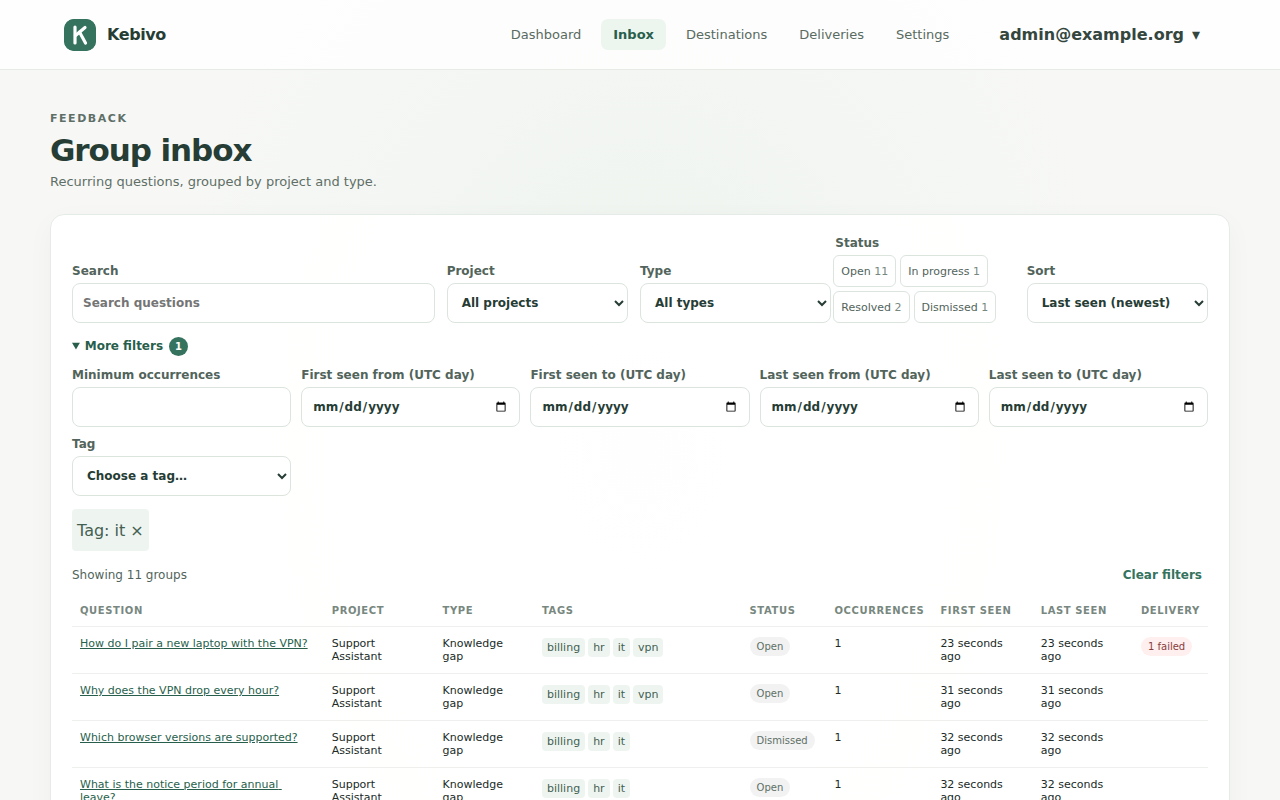
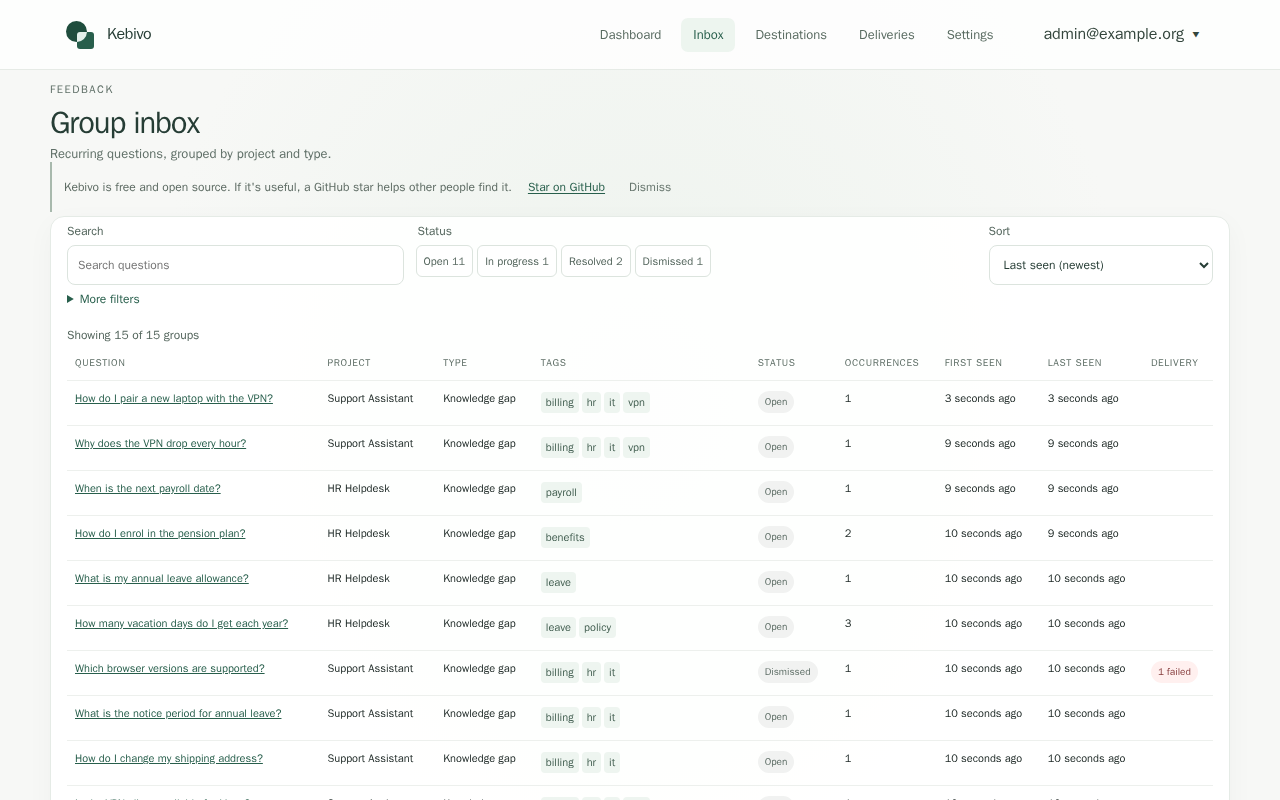
Improve inbox filters and text contrast

diff --git a/frontend/src/style.css b/frontend/src/style.css
@@ -6,7 +6,7 @@ button, input, textarea { font: inherit; }
 .topbar { min-height: 70px; padding: 0 clamp(20px, 5vw, 72px); display: flex; align-items: center; justify-content: space-between; border-bottom: 1px solid #e6ebe6; background: rgba(255,255,255,.78); }
 .brand { display: inline-flex; align-items: center; gap: 11px; color: #263d35; text-decoration: none; font-weight: 700; letter-spacing: -.025em; }
 .brand-mark { display:block; width: 32px; height: 32px; }
-.phase-label, .eyebrow { color: #78877f; font-size: 11px; letter-spacing: .14em; font-weight: 700; text-transform: uppercase; }
+.phase-label, .eyebrow { color: #5f6f67; font-size: 11px; letter-spacing: .14em; font-weight: 700; text-transform: uppercase; }
 .top-nav { display:flex; gap:8px; margin-left:auto; margin-right:22px; } .top-nav a { color:#596b61; text-decoration:none; padding:8px 12px; border-radius:7px; font-size:13px; } .top-nav a[aria-current=page] { background:#edf5ef; color:#285f4c; font-weight:700; }
 main { width: 100%; flex: 1; padding: 42px 24px; }
 .center { display: grid; place-items: center; }
@@ -15,7 +15,7 @@ h1, h2, h3 { font-family: inherit; letter-spacing: -.035em; color: #263d35; }
 h1 { margin: 11px 0 10px; font-size: clamp(28px, 4vw, 35px); line-height: 1.16; }
 h2 { margin: 5px 0 4px; font-size: 20px; }
 h3 { margin: 0 0 7px; font-size: 16px; }
-.intro, .subtle { color: #738078; line-height: 1.55; font-size: 13px; }
+.intro, .subtle { color: #5f6f67; line-height: 1.55; font-size: 13px; }
 .intro { margin: 0 0 25px; }
 form { display: grid; gap: 9px; }
 label, legend { color: #44554d; font-size: 13px; font-weight: 600; }
@@ -27,9 +27,9 @@ button:hover:not(:disabled) { background: #285f4c; }
 button:disabled { opacity: .62; cursor: wait; }
 button:active:not(:disabled) { transform: translateY(1px); }
 *:focus-visible { outline: 3px solid #285f4c; outline-offset: 3px; }
-.fine-print { margin: 20px 0 0; text-align: center; color: #89958e; font-size: 11px; line-height: 1.6; }
+.fine-print { margin: 20px 0 0; text-align: center; color: #5f6f67; font-size: 11px; line-height: 1.6; }
 code { font-family: ui-monospace, SFMono-Regular, Menlo, monospace; font-size: .88em; }
-footer { padding: 18px; text-align: center; color: #99a39d; font-size: 11px; }
+footer { padding: 18px; text-align: center; color: #5f6f67; font-size: 11px; }
 .dashboard-main { align-items: start; }
 .dashboard { width: min(100%, 1180px); margin: 0 auto; }
 .dashboard-heading, .panel-heading { display: flex; justify-content: space-between; align-items: center; gap: 18px; }
@@ -56,7 +56,7 @@ footer { padding: 18px; text-align: center; color: #99a39d; font-size: 11px; }
 .project-avatar { display: grid; place-items: center; flex: 0 0 34px; height: 34px; background: #e8f1eb; color: #35735e; border-radius: 10px; font-weight: 700; }
 .project-info { display: grid; min-width: 0; flex: 1; gap: 3px; }
 .project-info strong { overflow: hidden; text-overflow: ellipsis; white-space: nowrap; font-size: 13px; }
-.project-info small { color: #87938c; }
+.project-info small { color: #5f6f67; }
 .badge { padding: 4px 7px; border-radius: 99px; background: #f1f2f1; color: #707973; font-size: 10px; white-space: nowrap; }
 .badge.active { background: #eaf4ed; color: #317051; }
 .archived-toggle { margin-top: 13px; }
@@ -71,7 +71,7 @@ footer { padding: 18px; text-align: center; color: #99a39d; font-size: 11px; }
 .detail-panel { border-top: 3px solid #85ad95; }
 .settings-summary { display: grid; grid-template-columns: repeat(2, minmax(0, 1fr)); gap: 12px; margin: 20px 0; }
 .settings-summary div { padding: 11px 12px; border-radius: 8px; background: #f7f9f7; }
-.settings-summary dt { color: #78877f; font-size: 10px; text-transform: uppercase; letter-spacing: .08em; }
+.settings-summary dt { color: #5f6f67; font-size: 10px; text-transform: uppercase; letter-spacing: .08em; }
 .settings-summary dd { margin: 4px 0 0; color: #34463d; font-size: 13px; font-weight: 600; overflow-wrap: anywhere; }
 .tag-summary { display: grid; gap: 7px; margin: -8px 0 17px; color: #5b6d63; font-size: 11px; }
 .scope-note, .inline-note { margin: 0; padding: 12px; border-radius: 8px; background: #f0f6f1; color: #50645a; font-size: 12px; line-height: 1.6; }
@@ -79,7 +79,7 @@ footer { padding: 18px; text-align: center; color: #99a39d; font-size: 11px; }
 .project-form { gap: 8px; }
 .project-form fieldset { display: grid; gap: 8px; margin: 10px 0; padding: 13px; border: 1px solid #e2e9e3; border-radius: 9px; }
 .project-form legend { padding: 0 4px; }
-.help-text { margin: -5px 0 4px 23px; color: #87938c; font-size: 11px; }
+.help-text { margin: -5px 0 4px 23px; color: #5f6f67; font-size: 11px; }
 .project-form details { display: grid; gap: 8px; margin: 8px 0; }
 .project-form details summary { color: #285f4c; font-weight: 600; cursor: pointer; }
 .project-form details[open] summary { margin-bottom: 4px; }
@@ -115,19 +115,26 @@ footer { padding: 18px; text-align: center; color: #99a39d; font-size: 11px; }
 .first-run-empty p { color:#65746c; font-size:13px; line-height:1.6; }
 .first-run-empty .button-row { flex-wrap:wrap; }
 .setup-command { max-width:100%; overflow-x:auto; padding:12px; border-radius:8px; background:#f5f7f5; tab-size:2; }
-#sample-hint { display:block; margin-top:4px; color:#738078; font-size:12px; font-weight:400; line-height:1.55; }
+#sample-hint { display:block; margin-top:4px; color:#5f6f67; font-size:12px; font-weight:400; line-height:1.55; }
 .field-error { color:#9a3f3f; }
 .sample-banner + .sample-announcement { margin-top:0; }
 .empty-card { min-height: 240px; display: flex; flex-direction: column; align-items: center; justify-content: center; padding: 32px; text-align: center; border-style: dashed; }
 .empty-icon { display: grid; place-items: center; width: 48px; height: 48px; border-radius: 15px; color: #35735e; background: #edf5ef; font-size: 24px; }
 .empty-card h2 { margin: 15px 0 6px; }
-.empty-card p { max-width: 340px; margin: 0; color: #78877f; font-size: 13px; line-height: 1.6; }
+.empty-card p { max-width: 340px; margin: 0; color: #5f6f67; font-size: 13px; line-height: 1.6; }
+.inbox-page { padding-top:12px; }
+.inbox-page .dashboard-heading { margin-bottom:6px; }
+.inbox-page .star-prompt { margin-bottom:4px; }
+.inbox-page .inbox-filter-panel { padding:6px 16px; }
+.inbox-page .group-filters { margin-bottom:6px; }
+.inbox-page .more-filters { margin-bottom:4px; }
+.inbox-page .filter-summary { min-height:22px; margin-bottom:0; }
 .table-wrap { overflow-x: auto; }
 table { width: 100%; border-collapse: collapse; text-align: left; font-size: 11px; }
 th, td { padding: 10px 8px; border-bottom: 1px solid #edf0ed; vertical-align: top; }
-thead th { color: #78877f; font-size: 10px; text-transform: uppercase; letter-spacing: .06em; }
+thead th { color: #5f6f67; font-size: 10px; text-transform: uppercase; letter-spacing: .06em; }
 tbody th { min-width: 120px; font-weight: 600; }
-tbody th small { display: block; margin-top: 4px; color: #89958e; font-weight: 400; }
+tbody th small { display: block; margin-top: 4px; color: #5f6f67; font-weight: 400; }
 .scope-chip { display: inline-block; margin: 1px 3px 2px 0; padding: 3px 5px; border-radius: 4px; color: #446052; background: #eef5f0; white-space: nowrap; }
 .revoked-row { color: #88918b; }
 .secret-reveal { margin: 0 0 15px; padding: 14px; border: 1px solid #e9d99e; border-radius: 9px; background: #fff9e7; }
@@ -145,13 +152,13 @@ tbody th small { display: block; margin-top: 4px; color: #89958e; font-weight: 4
 .group-filters input,.tag-filter input { min-width:0; min-height:40px; padding:8px 10px; border:1px solid #dce4de; border-radius:8px; color:#263d35; background:#fff; font:inherit; }
 .group-filters .wide-filter { grid-column:span 2; }
 .inbox-filter-content { display:block; }
-.group-filters { grid-template-columns: minmax(190px,2fr) repeat(4,minmax(125px,1fr)); align-items:end; }
+.group-filters { grid-template-columns:minmax(220px,1.2fr) minmax(0,2fr) minmax(180px,.8fr); align-items:start; }
 .group-filters .wide-filter { grid-column:auto; }
 .status-filter { min-width:0; margin:0; padding:0; border:0; }
 .status-filter legend { margin-bottom:5px; color:#52645b; font-size:12px; }
 .status-toggles { display:flex; flex-wrap:wrap; gap:4px; }
 .status-toggle { min-height:32px; padding:5px 7px; border:1px solid #dce4de; border-radius:6px; color:#52645b; background:#fff; font:inherit; font-size:11px; cursor:pointer; }
-.status-toggle span { color:#78877f; font-variant-numeric:tabular-nums; }
+.status-toggle span { color:#5f6f67; font-variant-numeric:tabular-nums; }
 .status-toggle.is-selected { border-color:#35735e; color:#20513e; background:#edf5ef; }
 .more-filters { margin:2px 0 12px; }
 .more-filters summary { width:max-content; color:#285f4c; font-size:12px; font-weight:600; cursor:pointer; }
@@ -194,7 +201,7 @@ tbody th small { display: block; margin-top: 4px; color: #89958e; font-weight: 4
 .mcp-panel { margin-top:16px; padding-top:16px; border-top:1px solid #edf0ed; color:#52645b; font-size:12px; line-height:1.6; } .mcp-panel p { margin:7px 0; } .mcp-panel label { display:block; margin-top:10px; } .mcp-panel .safe-pre { margin:5px 0; }
 .inbox-table caption { text-align:left; } .status { display:inline-block; padding:4px 7px; border-radius:99px; background:#f1f2f1; color:#647168; font-size:10px; text-transform:capitalize; } .status-completed { background:#eaf4ed; color:#276047; } .status-failed { background:#fff0ef; color:#873e3e; }
 .safe-text { white-space:pre-wrap; overflow-wrap:anywhere; unicode-bidi:isolate; } .safe-pre { white-space:pre-wrap; overflow-wrap:anywhere; unicode-bidi:isolate; max-width:100%; padding:13px; border-radius:8px; background:#f5f7f5; color:#34463d; font-size:11px; }
-.inbox-table { min-width:900px; } .inbox-table td.question-cell { max-width:300px; } .inbox-table a { color:#285f4c; } .feedback-detail > section { margin-top:24px; padding-top:16px; border-top:1px solid #edf0ed; } .feedback-fields { display:grid; grid-template-columns:repeat(2,minmax(0,1fr)); gap:10px; } .feedback-fields > div { min-width:0; padding:11px; border-radius:8px; background:#f7f9f7; } .feedback-fields dt { color:#78877f; text-transform:uppercase; font-size:10px; letter-spacing:.08em; } .feedback-fields dd { margin:5px 0 0; line-height:1.55; font-size:13px; } .feedback-detail h2 { margin:15px 0 10px; } .default-tags { padding-top:14px; border-top:1px solid #edf0ed; } .default-tags form { margin:10px 0; } .default-tags .subtle { margin:4px 0 10px; } .normalized-tags ul { padding-left:20px; } .normalized-tags li { display:flex; justify-content:space-between; padding:5px 0; } .normalized-tags li code { color:#456253; }
+.inbox-table { min-width:900px; } .inbox-table td.question-cell { max-width:300px; } .inbox-table a { color:#285f4c; } .feedback-detail > section { margin-top:24px; padding-top:16px; border-top:1px solid #edf0ed; } .feedback-fields { display:grid; grid-template-columns:repeat(2,minmax(0,1fr)); gap:10px; } .feedback-fields > div { min-width:0; padding:11px; border-radius:8px; background:#f7f9f7; } .feedback-fields dt { color:#5f6f67; text-transform:uppercase; font-size:10px; letter-spacing:.08em; } .feedback-fields dd { margin:5px 0 0; line-height:1.55; font-size:13px; } .feedback-detail h2 { margin:15px 0 10px; } .default-tags { padding-top:14px; border-top:1px solid #edf0ed; } .default-tags form { margin:10px 0; } .default-tags .subtle { margin:4px 0 10px; } .normalized-tags ul { padding-left:20px; } .normalized-tags li { display:flex; justify-content:space-between; padding:5px 0; } .normalized-tags li code { color:#456253; }
 .group-question { display:-webkit-box; -webkit-line-clamp:2; -webkit-box-orient:vertical; overflow:hidden; max-width:34ch; margin:8px 0 12px; }
 .group-question.expanded { display:block; overflow:visible; }
 .group-chips { display:flex; flex-wrap:wrap; gap:8px; align-items:center; margin:8px 0; }

diff --git a/frontend/src/Inbox.tsx b/frontend/src/Inbox.tsx
@@ -79,7 +79,7 @@ export function Inbox({ navigate }: { path?: string; navigate: (url: string) => 
     navigate(`/inbox${params.size ? `?${params}` : ''}`);
   }
   const availableTags = Array.from(new Map(items.flatMap(item => item.tags).map(tag => [tag.slug, tag])).values());
-  function clearFilters() { navigate('/inbox'); setLoading(true); setError(''); }
+  function clearFilters() { setMoreOpen(false); navigate('/inbox'); setLoading(true); setError(''); }
   function removeTag(tag: string) { setLoading(true); setError(''); const params = new URLSearchParams(window.location.search); params.delete('tag'); tags.filter(item => item !== tag).forEach(item => params.append('tag', item)); navigate(`/inbox${params.size ? `?${params}` : ''}`); }
   async function loadMore() {
     if (!cursor) return; const requestedFilterKey = filterKey; setMoreLoading(true); setError('');
@@ -88,10 +88,10 @@ export function Inbox({ navigate }: { path?: string; navigate: (url: string) => 
     catch (e) { setError(e instanceof Error ? e.message : 'Could not load more groups.'); } finally { setMoreLoading(false); }
   }
   const filtered = Boolean(projectId || eventType || status.length || tags.length || q || firstFrom || firstTo || lastFrom || lastTo || minOccurrences);
-  const moreFilterCount = Number(Boolean(firstFrom || firstTo)) + Number(Boolean(lastFrom || lastTo)) + Number(Boolean(minOccurrences)) + tags.length;
+  const moreFilterCount = Number(Boolean(projectId)) + Number(Boolean(eventType)) + Number(Boolean(firstFrom || firstTo)) + Number(Boolean(lastFrom || lastTo)) + Number(Boolean(minOccurrences)) + tags.length;
   const statusCounts = summary?.groups_by_status ?? {};
   const statusCountLabel = statuses.map(value => `${statusLabels[value]} ${statusCounts[value] ?? 0}`).join(', ');
-  return <main className="dashboard-main"><section className="dashboard" aria-labelledby="inbox-title">
+  return <main className="dashboard-main inbox-page"><section className="dashboard" aria-labelledby="inbox-title">
     <div className="dashboard-heading"><div><div className="eyebrow">FEEDBACK</div><h1 id="inbox-title" tabIndex={-1}>Group inbox</h1><p className="subtle">Recurring questions, grouped by project and type.</p></div></div>
     <StarPrompt />
     {error && <div role="alert" className="error-message"><span>{error}</span> <button className="quiet-button" onClick={() => { setLoading(true); setRetry(v => v + 1); }}>Retry</button></div>}
@@ -100,17 +100,17 @@ export function Inbox({ navigate }: { path?: string; navigate: (url: string) => 
       <div className={`inbox-filter-content${mobileFiltersOpen ? ' is-open' : ''}`}>
       <div className="group-filters">
         <label className="wide-filter">Search<input aria-label="Search groups" type="search" value={searchDraft} onChange={e => setSearchState({ source: q, value: e.target.value })} placeholder="Search questions" /></label>
-        <label>Project<select aria-label="Filter by project" value={projectId} onChange={e => update('project_id', e.target.value)}><option value="">All projects</option>{projects.map(p => <option key={p.id} value={p.id}>{p.name}{p.is_sample ? ' · Sample' : ''}</option>)}</select></label>
-        <label>Type<select aria-label="Filter by type" value={eventType} onChange={e => update('event_type', e.target.value)}><option value="">All types</option><option value="knowledge_gap">Knowledge gap</option><option value="knowledge_correction">Knowledge correction</option></select></label>
         <fieldset className="status-filter"><legend>Status</legend><div role="group" aria-label={`Filter by status. Total groups by status: ${statusCountLabel}`} className="status-toggles">{statuses.map(value => <button type="button" key={value} aria-pressed={status.includes(value)} className={`status-toggle${status.includes(value) ? ' is-selected' : ''}`} onClick={() => setStatuses(status.includes(value) ? status.filter(item => item !== value) : [...status, value])}>{statusLabels[value]} <span>{statusCounts[value] ?? 0}</span></button>)}</div></fieldset>
         <label>Sort<select aria-label="Sort groups" value={sort} onChange={e => update('sort', e.target.value)}>{sorts.map(([value, label]) => <option key={value} value={value}>{label}</option>)}</select></label>
       </div>
-      <details className="more-filters" open={moreOpen} onToggle={e => setMoreOpen(e.currentTarget.open)}><summary>More filters{moreFilterCount ? <span className="filter-count">{moreFilterCount}</span> : null}</summary>
-        <div className="more-filter-grid"><label>Minimum occurrences<input aria-label="Minimum occurrences" type="number" min="1" value={minOccurrences} onChange={e => update('min_occurrences', e.target.value)} /></label>
+      <details className="more-filters" open={moreFilterCount > 0 || moreOpen} onToggle={e => setMoreOpen(e.currentTarget.open)}><summary>More filters{moreFilterCount ? <span className="filter-count">{moreFilterCount}</span> : null}</summary>
+        <div className="more-filter-grid"><label>Project<select aria-label="Filter by project" value={projectId} onChange={e => update('project_id', e.target.value)}><option value="">All projects</option>{projects.map(p => <option key={p.id} value={p.id}>{p.name}{p.is_sample ? ' · Sample' : ''}</option>)}</select></label>
+        <label>Type<select aria-label="Filter by type" value={eventType} onChange={e => update('event_type', e.target.value)}><option value="">All types</option><option value="knowledge_gap">Knowledge gap</option><option value="knowledge_correction">Knowledge correction</option></select></label>
+        <label>Minimum occurrences<input aria-label="Minimum occurrences" type="number" min="1" value={minOccurrences} onChange={e => update('min_occurrences', e.target.value)} /></label>
         {([['first_seen_from','First seen from (UTC day)',firstFrom],['first_seen_to','First seen to (UTC day)',firstTo],['last_seen_from','Last seen from (UTC day)',lastFrom],['last_seen_to','Last seen to (UTC day)',lastTo]] as const).map(([key,label,value]) => <label key={key}>{label}<input aria-label={label} type="date" value={value} onChange={e => update(key, e.target.value ? `${e.target.value}T${key.endsWith('_to') ? '23:59:59' : '00:00:00'}Z` : '')} /></label>)}
         <label>Tag<select aria-label="Filter by existing tag" value="" onChange={e => e.target.value && update('tag', e.target.value)}><option value="">Choose a tag…</option>{availableTags.filter(tag => !tags.includes(tag.slug)).map(tag => <option key={tag.slug} value={tag.slug}>{tag.name}</option>)}</select></label></div>
       </details>
-      <div className="filter-chips" aria-label="Active filters">{status.map(s => <button key={s} type="button" className="scope-chip" onClick={() => setStatuses(status.filter(value => value !== s))} aria-label={`Remove status ${statusLabels[s]}`}>Status: {statusLabels[s]} ×</button>)}{tags.map(tag => <button key={tag} type="button" className="scope-chip" onClick={() => removeTag(tag)} aria-label={`Remove tag ${tag}`}>Tag: {availableTags.find(item => item.slug === tag)?.name ?? tag} ×</button>)}</div>
+      <div className="filter-chips" role="group" aria-label="Active filters">{status.map(s => <button key={s} type="button" className="scope-chip" onClick={() => setStatuses(status.filter(value => value !== s))} aria-label={`Remove status ${statusLabels[s]}`}>Status: {statusLabels[s]} ×</button>)}{tags.map(tag => <button key={tag} type="button" className="scope-chip" onClick={() => removeTag(tag)} aria-label={`Remove tag ${tag}`}>Tag: {availableTags.find(item => item.slug === tag)?.name ?? tag} ×</button>)}</div>
       </div>
       <div className="filter-summary"><p aria-live="polite" aria-atomic="true">{loading ? 'Loading groups…' : filtered ? `Showing ${items.length} groups` : `Showing ${items.length} of ${summary?.total_groups ?? items.length} groups`}</p>{filtered && <button type="button" className="text-button" onClick={clearFilters}>Clear filters</button>}</div>
       {loading ? <p role="status">Loading groups…</p> : !error && items.length === 0 ? filtered ? <div className="empty-state"><h2>No matching groups</h2><p>Your filters hide all results. Try changing or clearing them.</p></div> : <FirstRunEmpty navigate={navigate} projectId={projects.find(project => !project.is_sample)?.id} /> : items.length > 0 && <><GroupTable items={items} />{cursor && <button className="quiet-button" onClick={() => void loadMore()} disabled={moreLoading}>{moreLoading ? 'Loading…' : 'Load more'}</button>}</>}

diff --git a/frontend/e2e/zz-accessibility.spec.ts b/frontend/e2e/zz-accessibility.spec.ts
@@ -1,0 +1,65 @@
+import AxeBuilder from '@axe-core/playwright';
+import { expect, test, type Page } from '@playwright/test';
+import { signIn } from './helpers';
+import { seed } from './seed';
+
+test('setup, inbox, and group detail have no serious or critical axe violations', async ({ browser, page, baseURL }) => {
+  const data = await seed(baseURL!);
+  const axeResults: { page: string; violations: { id: string; impact: string | null; description: string; nodes: number }[] }[] = [];
+  const check = async (target: Page, name: string) => {
+    const results = await new AxeBuilder({ page: target }).analyze();
+    axeResults.push({
+      page: name,
+      violations: results.violations.map(({ id, impact, description, nodes }) => ({ id, impact, description, nodes: nodes.length })),
+    });
+    expect(
+      results.violations.filter(({ impact }) => impact === 'serious' || impact === 'critical'),
+      `${name} should have no serious or critical accessibility violations`,
+    ).toEqual([]);
+  };
+
+  // The e2e stack already has an administrator. Stub the setup status to inspect
+  // the first-run form and its optional sample-data hint without creating an account.
+  const setupContext = await browser.newContext({ viewport: { width: 1280, height: 800 } });
+  const setupPage = await setupContext.newPage();
+  await setupPage.route('**/api/v1/auth/setup', route => route.fulfill({
+    status: 200,
+    contentType: 'application/json',
+    body: JSON.stringify({ required: true }),
+  }));
+  await setupPage.goto('/setup#token=axe-check');
+  await expect(setupPage.getByRole('heading', { name: 'Create your administrator account' })).toBeVisible();
+  await check(setupPage, 'setup');
+  await setupContext.close();
+
+  await signIn(page);
+  await expect(page.getByRole('heading', { name: 'Dashboard', level: 1 })).toBeVisible();
+  await page.goto('/inbox');
+  await expect(page.getByRole('heading', { name: 'Group inbox', level: 1 })).toBeVisible();
+  const moreFilters = page.locator('.more-filters');
+  await expect(moreFilters.locator('summary')).toContainText('More filters');
+  expect(await moreFilters.evaluate(element => (element as HTMLDetailsElement).open)).toBe(false);
+  await expect(page.getByLabel('Filter by project')).toBeHidden();
+  await expect(page.getByLabel('Filter by type')).toBeHidden();
+  const rowTops = await Promise.all([
+    page.locator('.group-filters > .wide-filter'),
+    page.locator('.group-filters > .status-filter'),
+    page.locator('.group-filters > label').last(),
+  ].map(async locator => (await locator.boundingBox())!.y));
+  expect(Math.max(...rowTops) - Math.min(...rowTops)).toBeLessThan(2);
+  await moreFilters.locator('summary').click();
+  await expect(page.getByLabel('Filter by project')).toBeVisible();
+  await expect(page.getByLabel('Filter by type')).toBeVisible();
+  await page.getByLabel('Filter by project').selectOption({ label: 'Support Assistant' });
+  await expect(moreFilters.locator('.filter-count')).toHaveText('1');
+  expect(await moreFilters.evaluate(element => (element as HTMLDetailsElement).open)).toBe(true);
+  await page.getByRole('button', { name: 'Clear filters' }).click();
+  await expect(moreFilters.locator('.filter-count')).toHaveCount(0);
+  expect(await moreFilters.evaluate(element => (element as HTMLDetailsElement).open)).toBe(false);
+  await check(page, 'inbox');
+
+  await page.goto(`/inbox/groups/${data.hrGroupId}`);
+  await expect(page.getByRole('heading', { name: 'Occurrences' })).toBeVisible();
+  await check(page, 'group detail');
+  process.stdout.write(`AXE_RESULTS ${JSON.stringify(axeResults)}\n`);
+});

diff --git a/frontend/e2e/screenshots.spec.ts b/frontend/e2e/screenshots.spec.ts
@@ -47,11 +47,11 @@ test('01 dashboard', async () => {
   await shot('01-dashboard.png');
 });
 
-test('02 inbox filtered by tag', async () => {
+test('02 inbox default filters', async () => {
   await page.goto('/inbox');
-  await page.getByText('More filters').click();
-  await page.getByLabel('Filter by existing tag').selectOption({ label: 'it' });
-  await expect(page.getByLabel('Active filters')).toBeVisible();
+  await expect(page.getByRole('heading', { name: 'Group inbox', level: 1 })).toBeVisible();
+  await expect(page.locator('.more-filters')).not.toHaveAttribute('open', '');
+  await expect(page.locator('.group-table tbody tr').first()).toBeVisible();
   await shot('02-inbox.png');
 });
 
